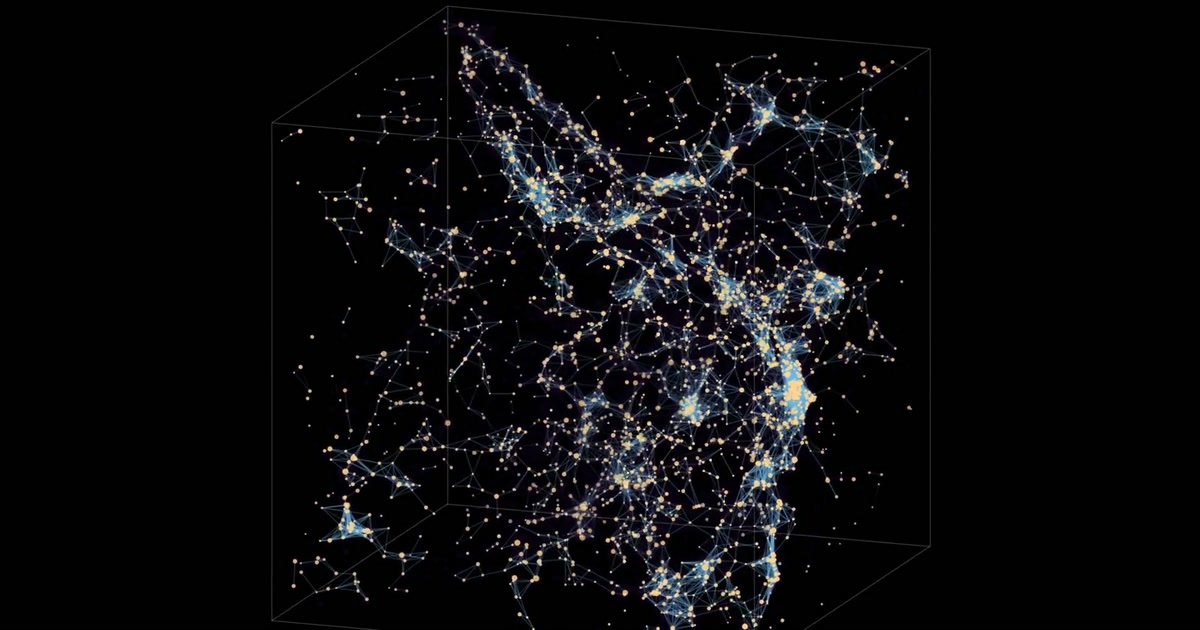
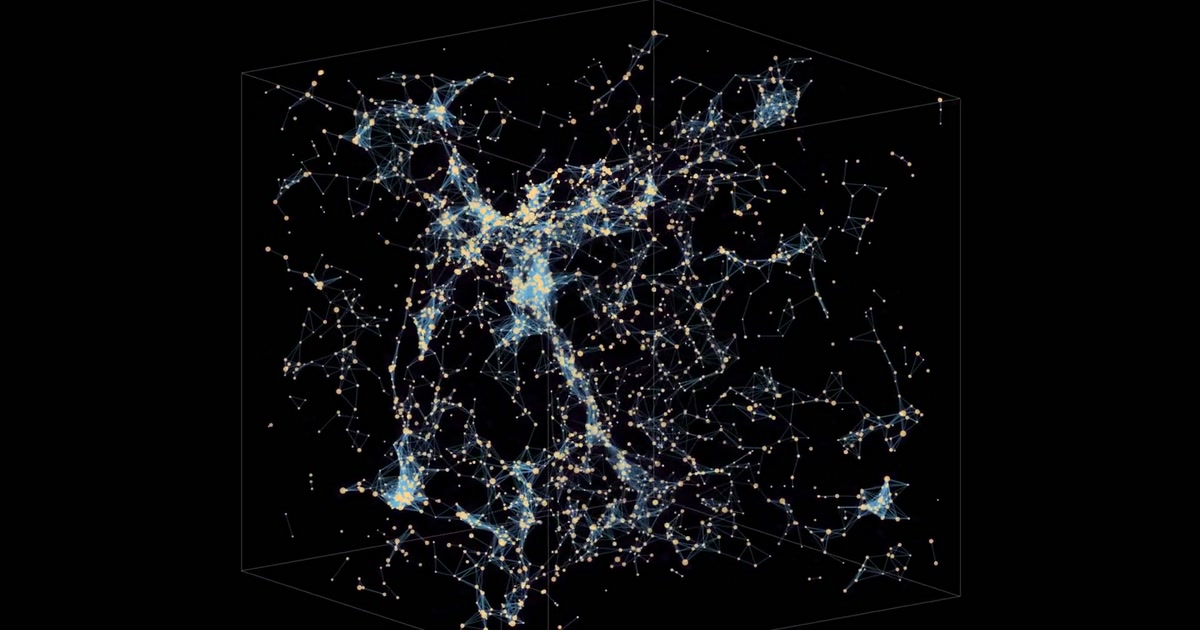
Reel: survive a slow reload; move preview still to the graph pass
Link preview was a still at t=10s. The edges exist there but are thin and
pale, and scaled down to a preview thumbnail they vanish -- it read as
halos with no graph. Moved to t=21s, the second graph pass, where the edges
are bright and dense. The literal midpoint (13.5s) is the density-field
phase and has no graph at all.

Reload on a slow connection: the first clip is 12.8MB and preload=auto had
the browser fetching it in parallel with the stylesheet, the font and the
poster still, so the hero sat black and then stuttered. Now:

- <video> carries preload=none and no src; reel.js attaches the source on
  window.load, so nothing competes with first paint.
- The first poster is preloaded (rel=preload as=image), since a CSS
  background-image is only discovered after the stylesheet parses.
- A link the browser reports as unable to carry it -- Save-Data, 2g-class,
  or downlink under 1.5Mbps -- stays on the poster slideshow and never
  requests a clip at all.

tests/reel_timing: Playwright regression test for all of this, 17
assertions. It stubs the media layer so stalls are injected deterministically
and no network is touched, and pins navigator.connection because headless
Chromium's downlink estimate drifts across the 1.5Mbps threshold.

Claude-Session: https://claude.ai/code/session_01Rxazn1Vut5oU1RwHa4JPvR

diff --git a/assets/js/reel.js b/assets/js/reel.js
@@ -47,6 +47,15 @@
   var reduced = window.matchMedia('(prefers-reduced-motion: reduce)').matches;
   var small   = window.matchMedia('(max-width: 760px)').matches;
 
+  /* The reel is 26MB of decoration. Skip it outright when the browser says the
+     connection cannot carry it -- Save-Data, a 2g-class link, or a measured
+     downlink under 1.5Mbps, at which the first clip alone would take a minute.
+     Chromium-family only; elsewhere this is undefined and we just play. */
+  var conn = navigator.connection || navigator.mozConnection || navigator.webkitConnection;
+  var slowNet = !!(conn && (conn.saveData === true
+                 || /2g/.test(conn.effectiveType || '')
+                 || (typeof conn.downlink === 'number' && conn.downlink > 0 && conn.downlink < 1.5)));
+
   /* ---------- a clock that follows the picture ---------- */
 
   var timer = null, stallTimer = null, remaining = 0, startedAt = 0, running = false;
@@ -80,6 +89,13 @@
   }
 
   /* ---------- shared UI ---------- */
+
+  function afterLoad(fn) {
+    if (document.readyState === 'complete') { fn(); return; }
+    window.addEventListener('load', function once() {
+      window.removeEventListener('load', once); fn();
+    });
+  }
 
   function pad(n) { return (n < 10 ? '0' : '') + n; }
 
@@ -205,21 +221,27 @@
 
   window.console && console.info('[reel] clips:', clips.length,
     '| reduced-motion:', reduced, '| small screen:', small,
-    '|', (reduced || small) ? 'POSTER MODE (no video by design)' : 'video mode');
+    '| slow network:', slowNet, conn ? '(' + conn.effectiveType + ', ' + conn.downlink + 'Mbps)' : '(unknown)',
+    '|', (reduced || small || slowNet) ? 'POSTER MODE (no video by design)' : 'video mode');
 
-  if (reduced || small) {
+  if (reduced || small || slowNet) {
     reveal(0);                           // poster slideshow only
   } else {
     videoMode = true;
-    var first = videos[0];
-    if (!first.getAttribute('src')) first.src = clips[0].src;
-    var p0 = first.play();
-    if (p0 && p0.catch) p0.catch(function (err) {
-      window.console && console.warn('[reel] autoplay blocked:', err && err.name, '— staying on stills');
-    });
-    whenPlaying(first, function (timedOut) {
-      if (!timedOut) { first.classList.add('is-active'); watch(first); }
-      reveal(0);                         // clock starts with the picture
+    // Wait for load, not DOMContentLoaded: the clip must not compete with the
+    // stylesheet, the font and the poster still for bandwidth on a reload.
+    afterLoad(function () {
+      var first = videos[0];
+      first.preload = 'auto';
+      if (!first.getAttribute('src')) first.src = clips[0].src;
+      var p0 = first.play();
+      if (p0 && p0.catch) p0.catch(function (err) {
+        window.console && console.warn('[reel] autoplay blocked:', err && err.name, '— staying on stills');
+      });
+      whenPlaying(first, function (timedOut) {
+        if (!timedOut) { first.classList.add('is-active'); watch(first); }
+        reveal(0);                       // clock starts with the picture
+      });
     });
   }
 

diff --git a/tests/reel_timing/harness.html b/tests/reel_timing/harness.html
@@ -1,0 +1,48 @@
+<!doctype html><html><head><meta charset="utf-8"><style>
+.reel-nav button::after{content:'';display:block}
+</style></head><body>
+<section class="hero" data-reel data-duration="30000"
+  data-clips='[{"src":"a.mp4","caption":"AAA","href":"/1/","duration":3000},
+               {"src":"b.mp4","caption":"BBB","href":"/2/","duration":3000},
+               {"src":"c.mp4","caption":"CCC","href":"/3/","duration":3000}]'>
+  <div class="hero__media"><div class="hero__stage">
+    <video class="hero__player" data-slot="0" muted playsinline loop></video>
+    <video class="hero__player" data-slot="1" muted playsinline loop></video>
+  </div>
+  <div class="hero__poster is-active"></div><div class="hero__poster"></div><div class="hero__poster"></div>
+  </div>
+  <div class="hero__inner"><div class="hero__meta">
+    <div class="reel-caption"><div class="reel-caption__inner is-in"><a href="/1/">
+      <span class="reel-caption__index">01 / 03</span>
+      <span class="reel-caption__text">AAA</span></a></div></div>
+    <div class="reel-nav"><button aria-current="true"></button><button></button><button></button></div>
+  </div></div>
+</section>
+<script>
+/* Stub the media layer: play() resolves but produces no frames until the
+   test says so. This is the whole point — it reproduces a slow connection
+   deterministically, with no network involved. */
+window.__log = [];
+/* Pin navigator.connection: headless Chromium's downlink estimate drifts
+   around 1.4-1.6Mbps, straddling the 1.5 threshold, which made this flaky. */
+var __slow = new URLSearchParams(location.search).get('net') === 'slow';
+Object.defineProperty(navigator, 'connection', { configurable: true, value:
+  __slow ? { saveData:false, effectiveType:'3g', downlink:0.8 }
+         : { saveData:false, effectiveType:'4g', downlink:10 } });
+Object.defineProperty(HTMLMediaElement.prototype, 'currentTime',
+  { get(){ return this.__t || 0; }, set(v){ this.__t = v; }, configurable:true });
+HTMLMediaElement.prototype.play = function(){ this.__playCalled = (this.__playCalled||0)+1; return Promise.resolve(); };
+HTMLMediaElement.prototype.pause = function(){};
+HTMLMediaElement.prototype.load = function(){};
+window.__frames = function(v){ v.__t = 1; v.dispatchEvent(new Event('playing')); };
+window.__stall  = function(v){ v.dispatchEvent(new Event('waiting')); };
+window.__state  = function(){
+  const r = document.querySelector('[data-reel]');
+  return { play: r.style.getPropertyValue('--reel-play').trim(),
+           dur:  r.style.getPropertyValue('--reel-duration').trim(),
+           cap:  document.querySelector('.reel-caption__text').textContent,
+           cur:  [...document.querySelectorAll('.reel-nav button')].findIndex(b=>b.hasAttribute('aria-current')) };
+};
+</script>
+<script src="../../assets/js/reel.js"></script>
+</body></html>

diff --git a/layouts/_partials/head.html b/layouts/_partials/head.html
@@ -7,8 +7,10 @@
 <meta name="theme-color" content="#06070b">
 
 {{/* Link previews (Messages, Slack, Signal, X, ...). The image is a still from
-     the cosmic-web reel at t=10s, where the density field has resolved into the
-     halo graph; regenerate with tools/make_og_cover.sh if the clip changes. */}}
+     the cosmic-web reel at t=21s, the second graph pass where the edges are
+     brightest. The literal midpoint (13.5s) is the density-field phase, and
+     the first graph pass (10-11s) has edges too faint to survive being scaled
+     down to a preview thumbnail. Regenerate with tools/make_og_cover.sh. */}}
 {{ $og := "img/og-cover.jpg" | absURL }}
 <meta property="og:type" content="{{ if .IsPage }}article{{ else }}website{{ end }}">
 <meta property="og:site_name" content="{{ site.Title }}">
@@ -34,6 +36,13 @@
 <link rel="icon" href="{{ "favicon-32.png" | relURL }}" sizes="32x32" type="image/png">
 <link rel="icon" href="{{ "favicon.ico" | relURL }}" sizes="any">
 <link rel="apple-touch-icon" href="{{ "apple-touch-icon.png" | relURL }}">
+
+{{/* The hero still is a CSS background-image, so it is only discovered after
+     the stylesheet parses -- on a slow connection that left the hero black for
+     a beat. Preloading it lets the hero paint on the first frame. */}}
+{{ with (index site.Data.reel.clips 0).poster }}
+<link rel="preload" as="image" href="{{ . | relURL }}" fetchpriority="high">
+{{ end }}
 
 <link rel="preconnect" href="https://fonts.googleapis.com">
 <link rel="preconnect" href="https://fonts.gstatic.com" crossorigin>

diff --git a/layouts/_partials/hero.html b/layouts/_partials/hero.html
@@ -11,11 +11,12 @@
     <div class="hero__stage">
       {{ range $i, $c := $clips }}
         {{ if lt $i 2 }}
+          {{/* No src and preload=none on purpose: reel.js attaches the source
+               after window.load, so the markup, CSS, font and poster still are
+               not competing with a 12.8MB clip for a narrow pipe. */}}
           <video class="hero__player" data-slot="{{ $i }}"
-                 muted playsinline loop disablepictureinpicture
-                 preload="{{ if eq $i 0 }}auto{{ else }}none{{ end }}"
-                 {{ if eq $i 0 }}src="{{ (index $clips 0).src | relURL }}"
-                 poster="{{ (index $clips 0).poster | relURL }}"{{ end }}></video>
+                 muted playsinline loop disablepictureinpicture preload="none"
+                 {{ if eq $i 0 }}poster="{{ (index $clips 0).poster | relURL }}"{{ end }}></video>
         {{ end }}
       {{ end }}
     </div>
